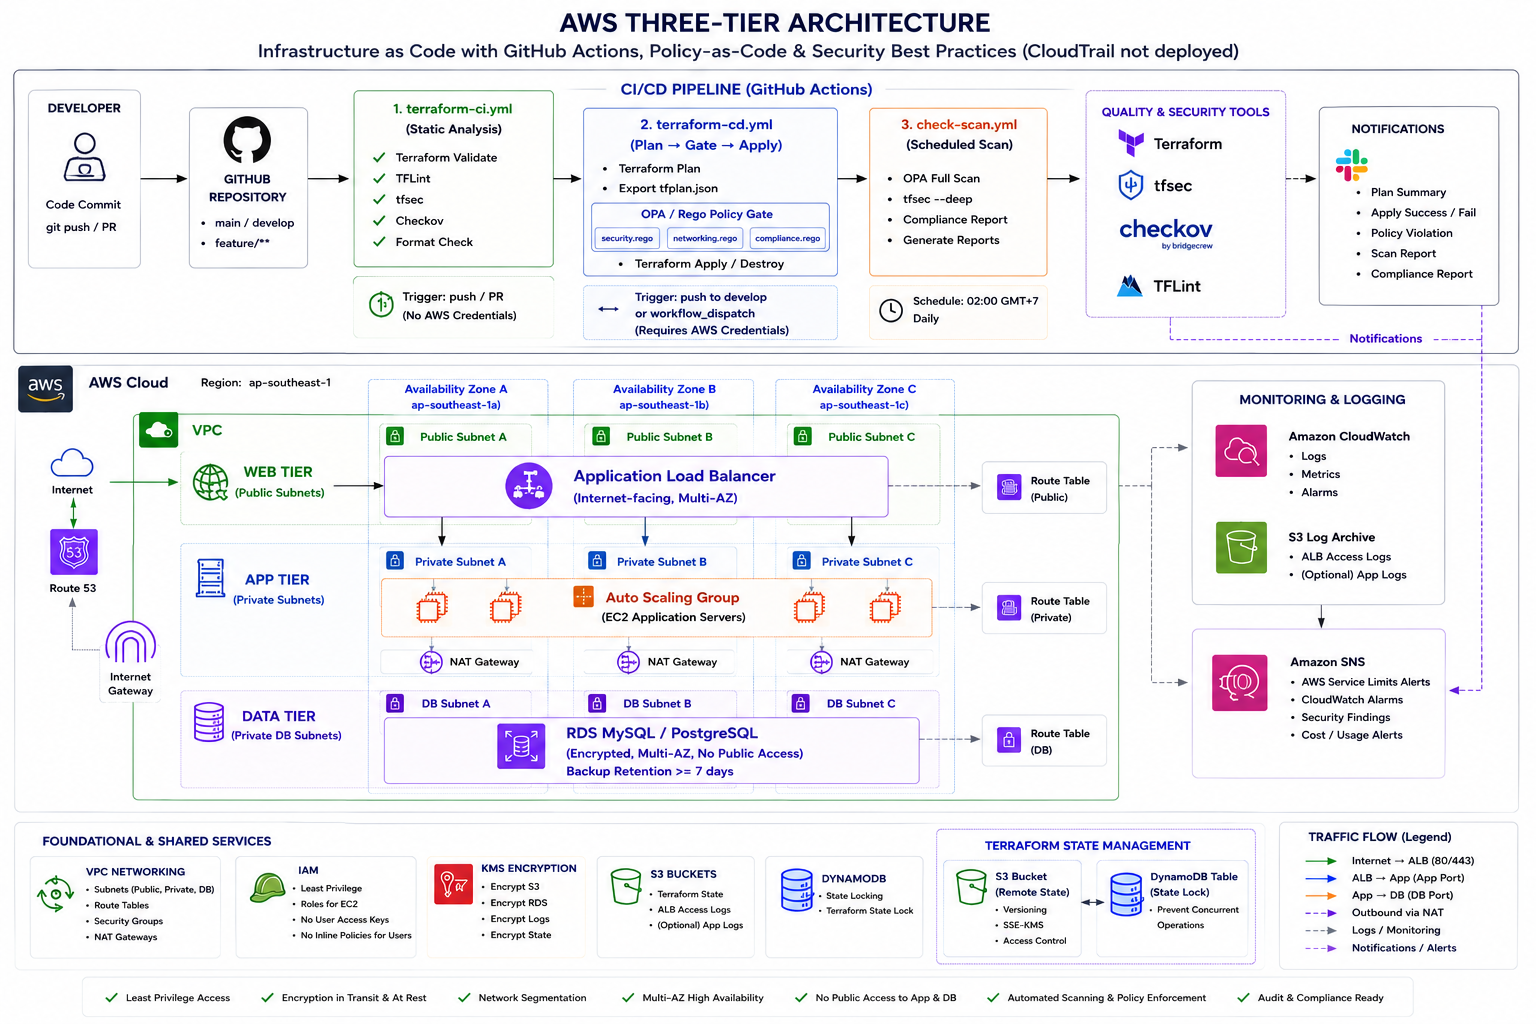
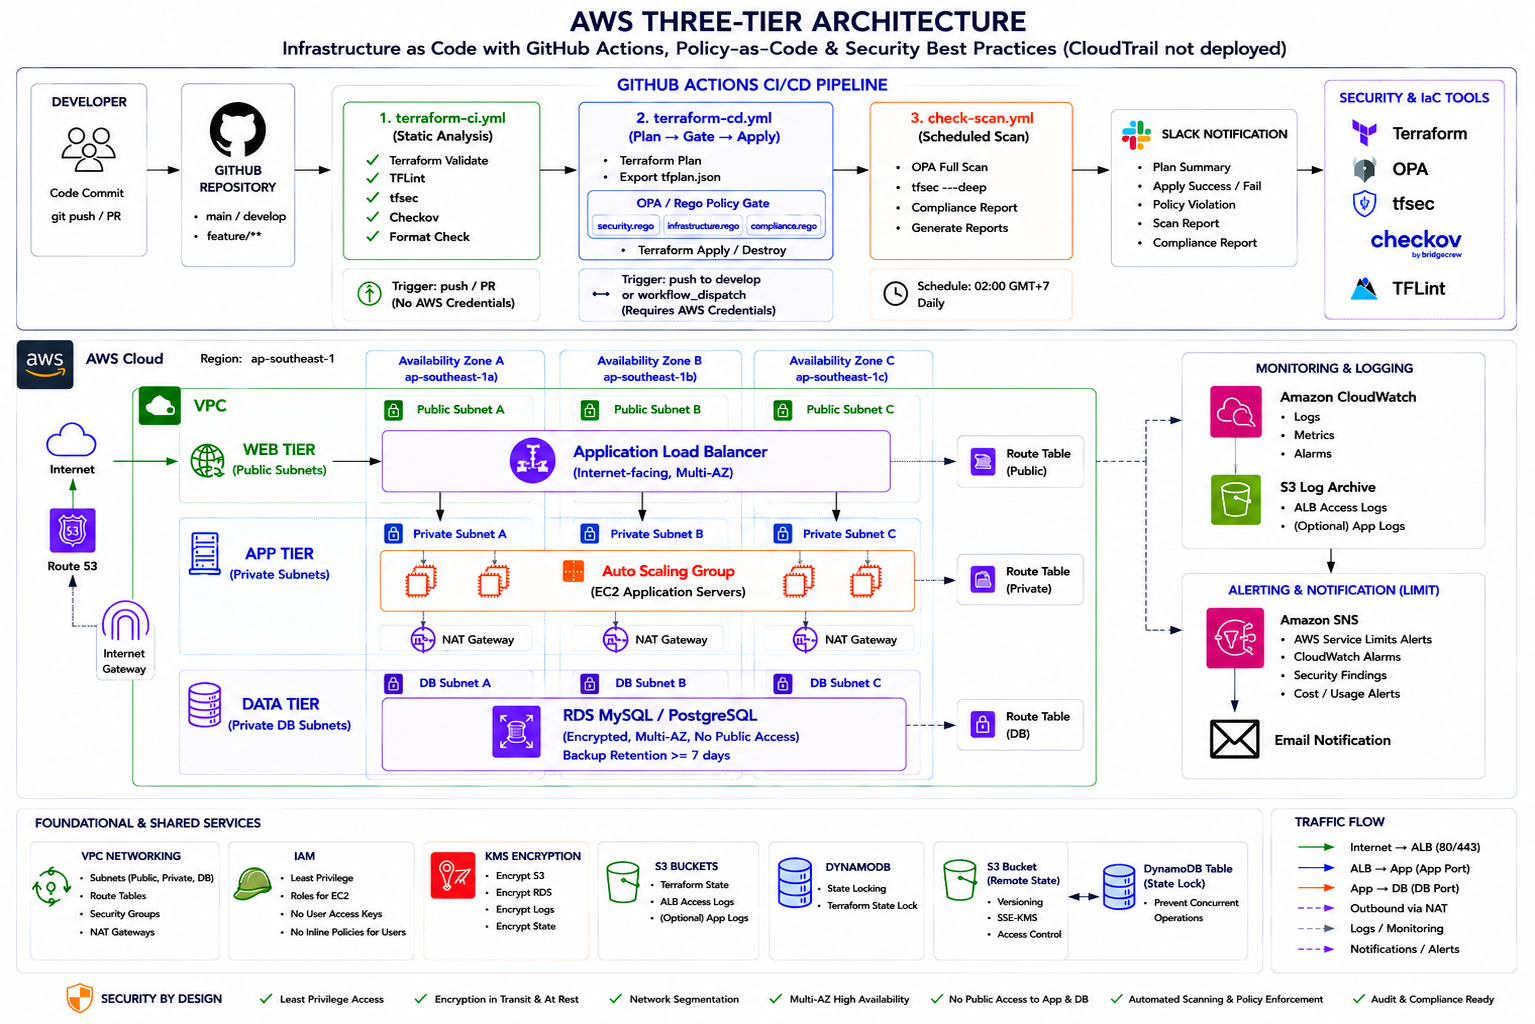
add cicd pipeline image

diff --git a/.github/workflows/CICD-GUIDE.md b/.github/workflows/CICD-GUIDE.md
@@ -1,3 +1,9 @@
+## Mô hình kiến trúc tổng thể 
+
+![CICD_Pipeline](../../images/cicd_pipeline.png)
+
+---
+
 # Hướng dẫn chạy CI/CD Pipeline
 
 ## Mục lục